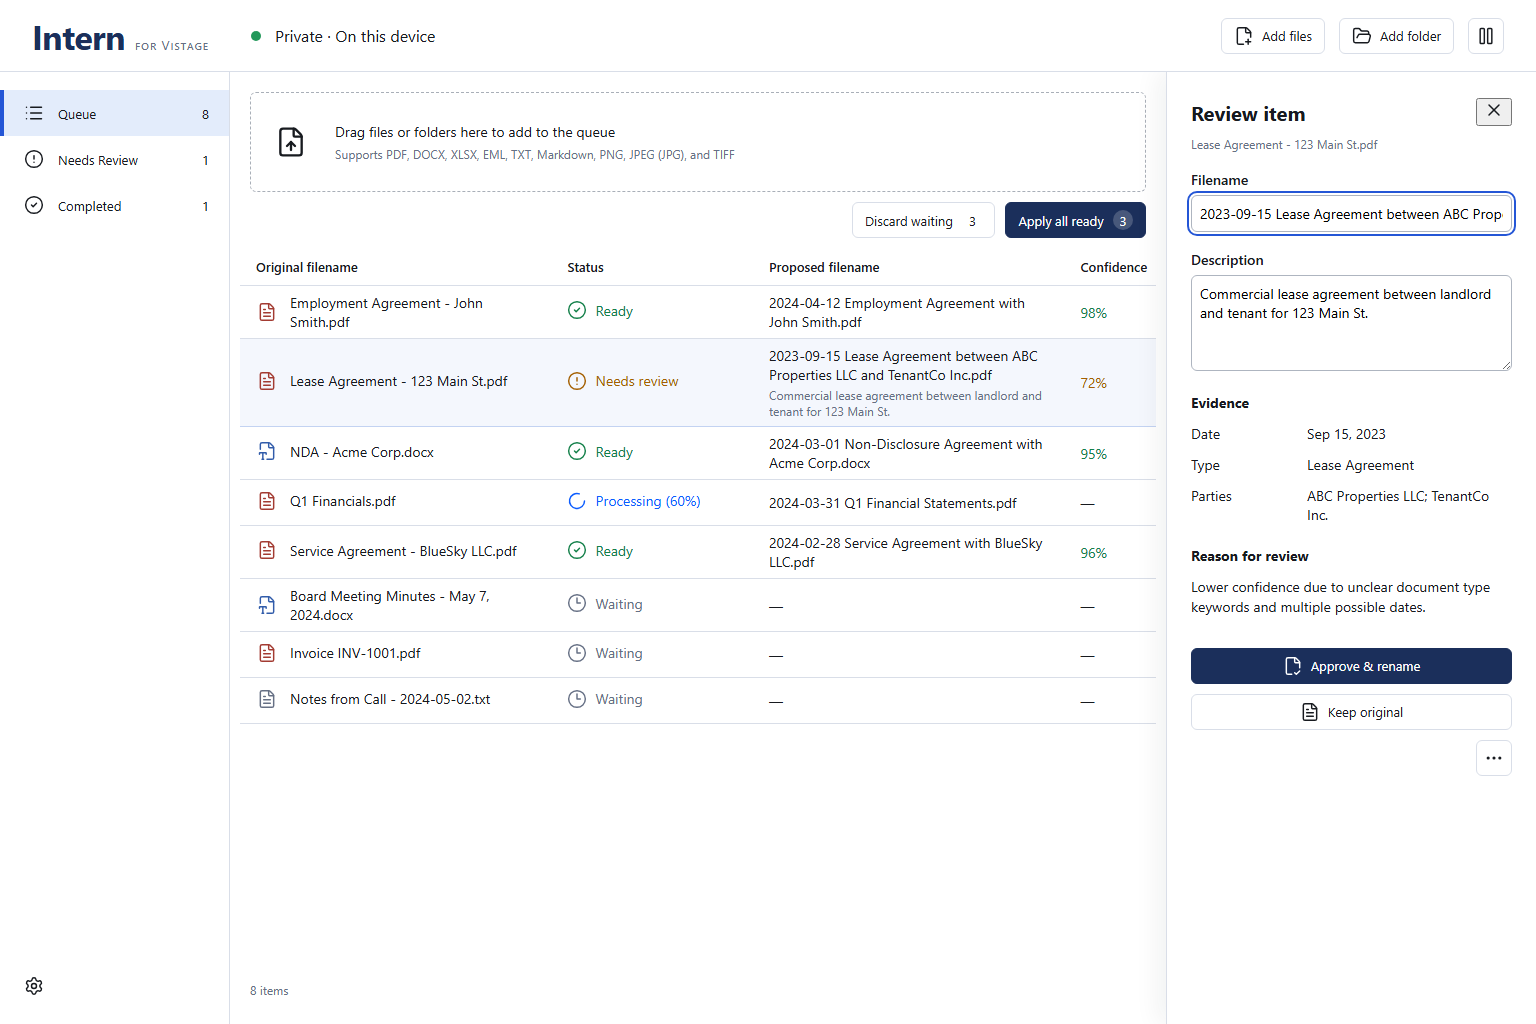
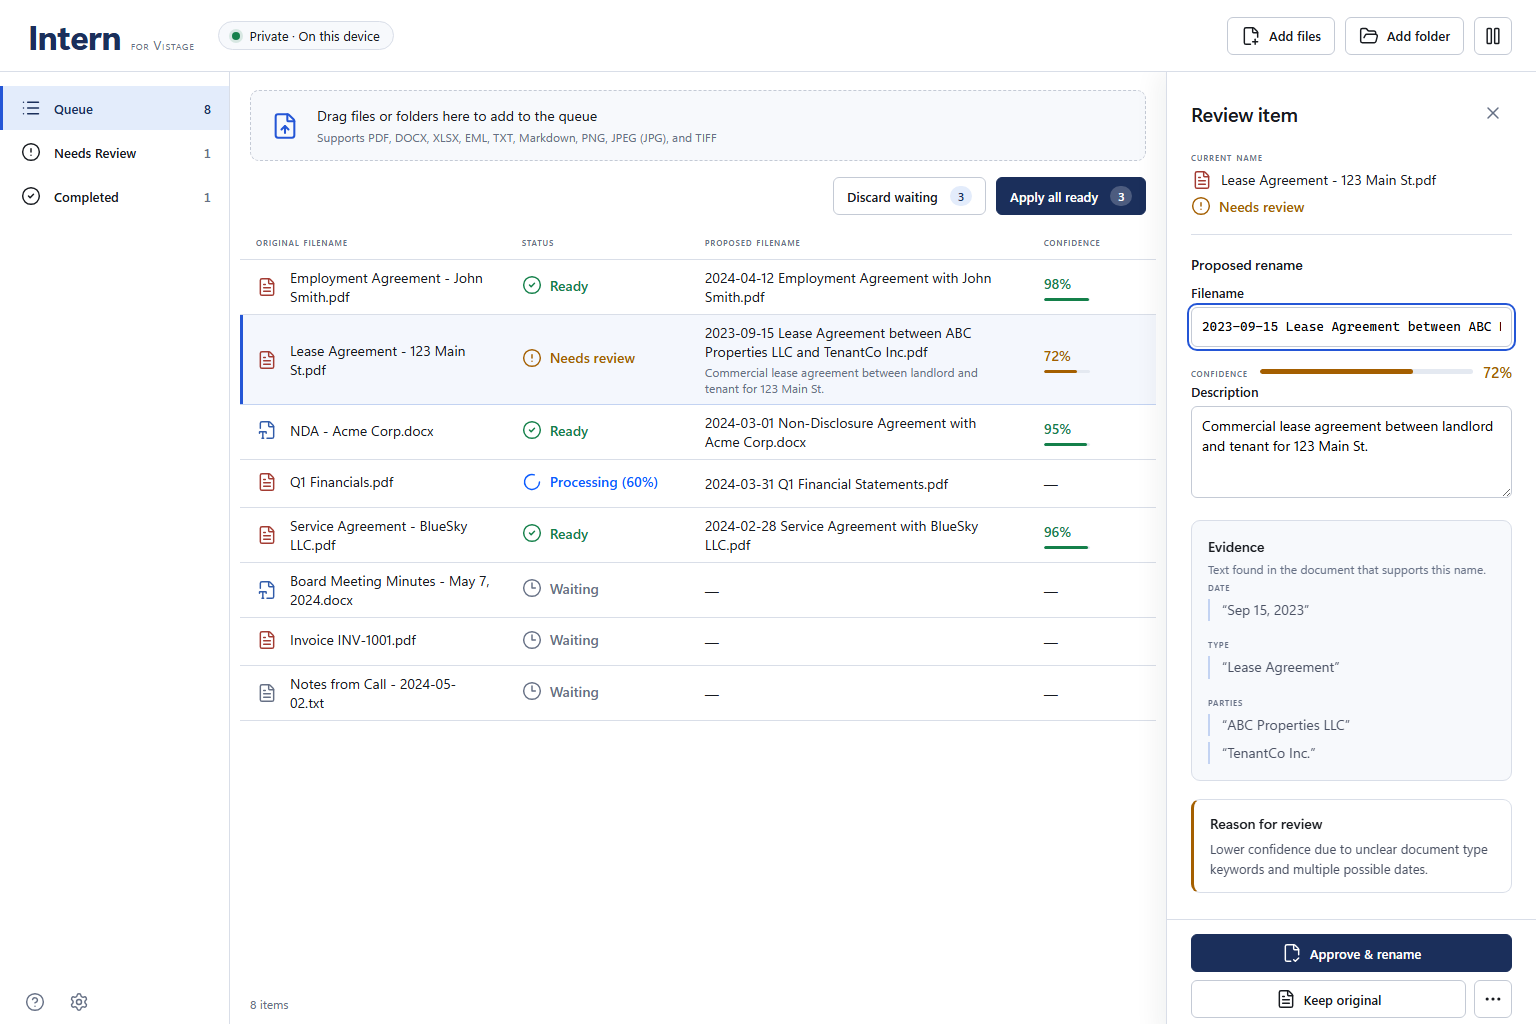
qa: accept alpha.6 rendered fidelity
Binds the sign-off to the alpha.6 release-input digest fe016f39... and the
capture from Whole-product QA evidence run 33572364279 at commit e6c4e9f,
and commits that capture so the record and the file it names agree.

The frame differs substantially from alpha.5's because alpha.6 rebuilds the
review panel: evidence as attributed quotations under labelled headings with
each party separately checkable, the model's confidence present in the panel
for the first time, a pinned decision bar, and a selected row that can no
longer be confused with hover. That run also passed its corpus evaluation on
CI hardware and its installed-core smoke.

Reviewed by Claude Opus 5 at the maintainer's direction, named as such in
the record and the ledger.

Claude-Session: https://claude.ai/code/session_016EPWSLuZ3wKWJ1oynpU9ZN

diff --git a/docs/qa/fidelity-ledger.md b/docs/qa/fidelity-ledger.md
@@ -1,24 +1,26 @@
-# Intern alpha.5 rendered-fidelity ledger
+# Intern alpha.6 rendered-fidelity ledger
 
 **Rendered sign-off status: accepted.** The accepted record is
-`docs/qa/rendered-fidelity-signoff.json`, reviewed on 2026-09-01 and bound to
+`docs/qa/rendered-fidelity-signoff.json`, reviewed on 2026-09-02 and bound to
 the final non-QA release-input digest
[2 lines of base64/hex data omitted]
 
 ## Evidence inspected
 
 - Accepted concept: `docs/design/intern-primary-screen.png`, 1536×1024,
[1 lines of base64/hex data omitted]
 - Fresh implementation capture: hosted Whole-product QA evidence run
-  `33481594670`, Windows/X64, commit
-  `0a62f9b63c73e422263d42df8e778dab878552a8`. The capture is 1536×1024 and
[1 lines of base64/hex data omitted]
-- The capture differs from alpha.4's on purpose: alpha.5 ships the Contoso
-  brand treatment, and the frame shows it - the small-caps "for Contoso" tag
-  beside the wordmark, the primary action in navy with white text at
-  roughly 12:1, and focus/selection states on the brand blue. The run's
-  automated contrast assertions passed, including the "Needs review" amber on
-  the retuned selected-row tint.
+  `33572364279`, Windows/X64, commit
+  `9e91511c12ad9a3e727e3fa56e15b7197de191d2`. The capture is 1536×1024 and
[1 lines of base64/hex data omitted]
+- The capture differs substantially from alpha.5's: alpha.6 rebuilds the review
+  panel. Evidence is now attributed quotations under labelled DATE, TYPE, and
+  PARTIES headings, each party on its own line so it can be checked separately;
+  the model's confidence appears in the panel at all, with an exact percentage
+  beside a proportional track; the approve and keep actions sit in a pinned bar
+  at the foot of the panel; the selected row carries an accent bar as well as a
+  tint, so it is no longer confusable with hover; and a help affordance sits
+  beside the settings gear. The run's automated contrast assertions passed.
 - That run completed every substantive automated gate: 19 Vitest files / 146
   tests, four Playwright tests, `cargo fmt --check`, `cargo clippy -D
   warnings`, workspace Rust tests, native fixture tests, verified pinned
@@ -27,8 +29,8 @@ the final non-QA release-input digest
   every gate above its floor and zero documents filed under a forbidden
   date, with the new reference-date guard converging the hardware-dependent
   model picks. Its final evidence binding correctly failed closed because the
-  prior sign-off was bound to the alpha.4
[1 lines of base64/hex data omitted]
+  prior sign-off was bound to the alpha.5
[1 lines of base64/hex data omitted]
   this post-run review supplies the accepted replacement record.
 
 ## Review conclusion
@@ -50,7 +52,7 @@ which the capture test arranges deliberately so the head of the proposed name
 is visible rather than its tail.
 
 This is not a pixel-equality assertion: the reference and implementation can
-differ where alpha.5's supported behavior requires it. The native title bar,
+differ where alpha.6's supported behavior requires it. The native title bar,
 1024-pixel layout, hover states, and motion remain supported by the hosted
 automated browser and installed-app gates rather than an assertion that the
 single 1536×1024 frame captures every state.
